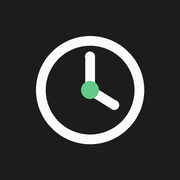
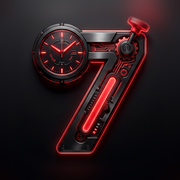
Novo ícone do app
Ícone com relógio e o número 7 em vermelho, recortado sem os cantos
arredondados do mockup (o iPhone arredonda sozinho), nos tamanhos
180, 192 e 512 px.

diff --git a/sw.js b/sw.js
@@ -1,6 +1,6 @@
 // Guarda os arquivos do app no aparelho para funcionar sem internet.
 // Ao publicar uma nova versão, aumente VERSAO para os aparelhos baixarem os arquivos novos.
-const VERSAO = "ponto-v5";
+const VERSAO = "ponto-v6";
 const ARQUIVOS = [
   "./", "index.html", "styles.css", "app.js", "xlsm.js", "manifest.webmanifest",
   "vendor/jszip.min.js", "fonts/manrope-latin-wght-normal.woff2",
